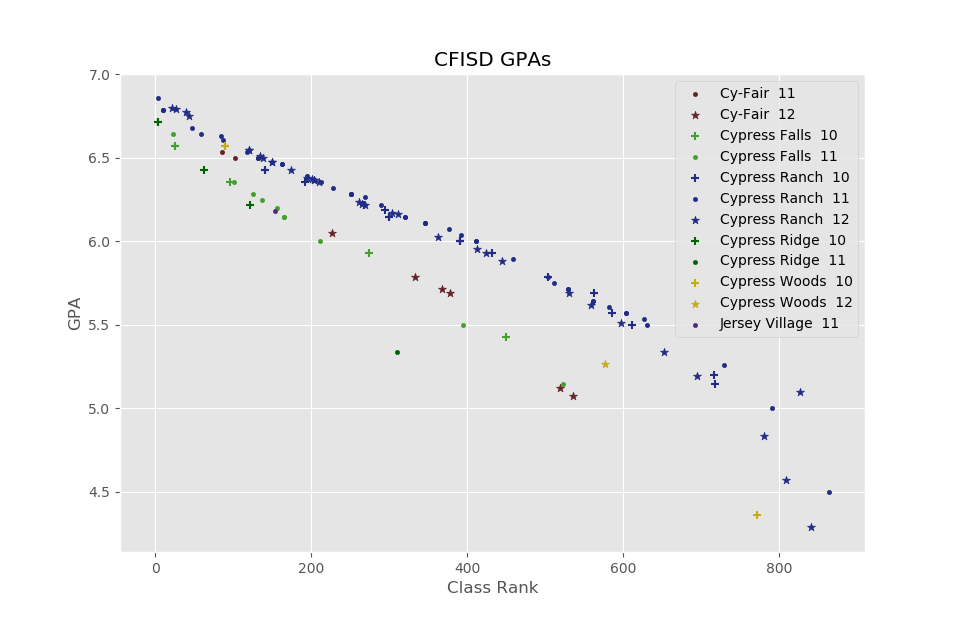
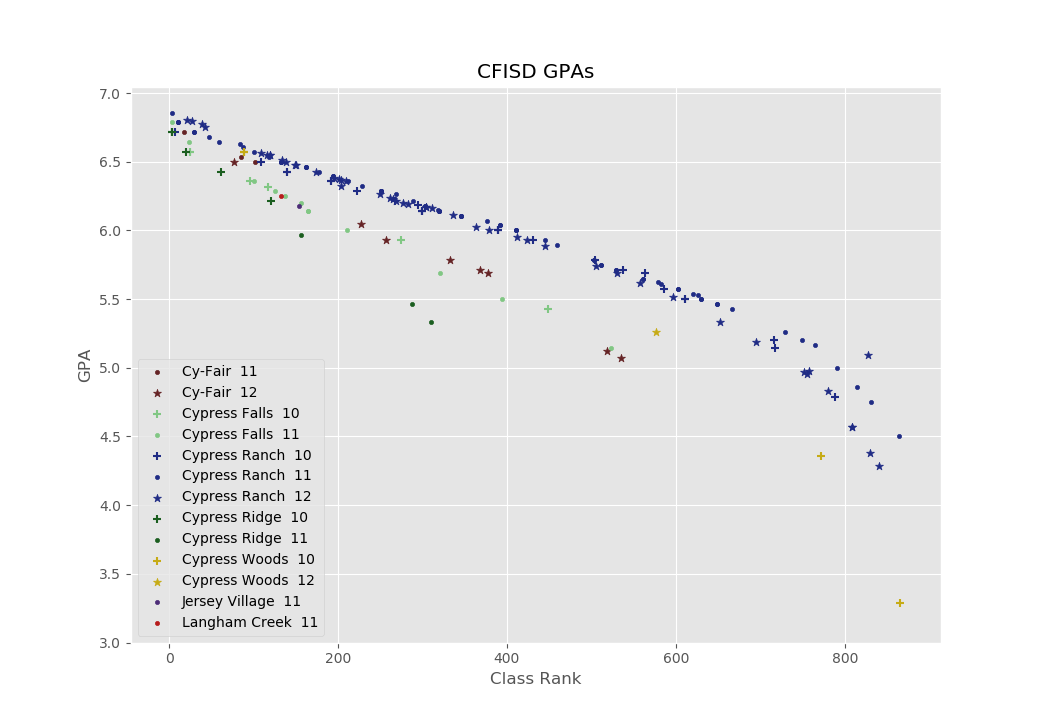
Updated

diff --git a/other_visuals/show_demo_stats.py b/other_visuals/show_demo_stats.py
@@ -9,10 +9,15 @@ grades    = defaultdict(int)
 
 for index, row in cyranch_db.tables.demo.all().iterrows():
 
-    schools[row['school']] += 1
-    genders[row['gender']] += 1
-    languages[row['language']] += 1
-    grades[str(row['gradelevel'])] += 1
+    school = row['school'].replace('Cypress ', 'Cy-').replace('High School', 'HS').replace('Middle School', 'MS')
+    gender = row['gender'].title()
+    language = row['language'].split(' ')[0].title()
+    grade = str(row['gradelevel']) if row['gradelevel'] >= 9 else '< 9'
+
+    schools[school] += 1
+    genders[gender] += 1
+    languages[language] += 1
+    grades[grade] += 1
 
 def create_plot():
     """Plots with matplot lib"""
@@ -31,7 +36,7 @@ def create_plot():
         plot.set_title(title)
         bars = plot.bar(indexes, [data_dict[k] for k in keys], color=color)
         plot.set_xticks(indexes)
-        plot.set_xticklabels([k.title() for k in keys])
+        plot.set_xticklabels(keys)
 
         for rect in bars:
             height = rect.get_height()
@@ -45,10 +50,12 @@ def create_plot():
 
     f, ((ax1, ax2, ax3, ax4)) = plt.subplots(4, 1)
 
-    make_bar(ax1, schools, 'School', 5)
-    make_bar(ax2, grades, 'Grade Level', keys=['12', '11', '10', '9'])
-    make_bar(ax3, genders, 'Gender', color=['#E53935', '#3949AB'])
-    make_bar(ax4, languages, 'Language', 5)
+    make_bar(ax1, schools, 'School', limit=6, color=['#3949AB', '#D32F2F', '#1976D2', '#689F38', '#E64A19', '#00796B'])
+    make_bar(ax2, grades, 'Grade Level', keys=['12', '11', '10', '9', '< 9'], color=['#00695C', '#00897B', '#26A69A', '#80CBC4', '#7E57C2'])
+    make_bar(ax3, genders, 'Gender', color=['#E57373', '#64B5F6'])
+    make_bar(ax4, languages, 'Language', limit=6, color=['#3949AB', '#D32F2F', '#1976D2', '#689F38', '#E64A19', '#00796B'])
+
+    plt.subplots_adjust(hspace=.5)
 
     plt.show()
 

diff --git a/other_visuals/show_gpa_stats.py b/other_visuals/show_gpa_stats.py
@@ -52,9 +52,11 @@ def create_plot():
         elif "Woods" in school:
             return "#c6ab16"
         elif "Ridge" in school:
-            return "#006400"
+            return "#1B5E20"
         elif "Falls" in school:
-            return "#42a02c"
+            return "#81C784"
+        elif "Langham" in school:
+            return "#B71C1C"
         else:
             return "#000000"
 
@@ -84,7 +86,7 @@ def create_plot():
         plt.scatter(x, y, c=get_school_color(school), marker=markers[grade], label=school)
 
     plt.legend(legend)
-    plt.yticks([4.5, 5, 5.5, 6, 6.5, 7])
+    plt.yticks([3, 3.5, 4, 4.5, 5, 5.5, 6, 6.5, 7])
     plt.ylabel('GPA')
     plt.xlabel('Class Rank')
     plt.title('CFISD GPAs')
